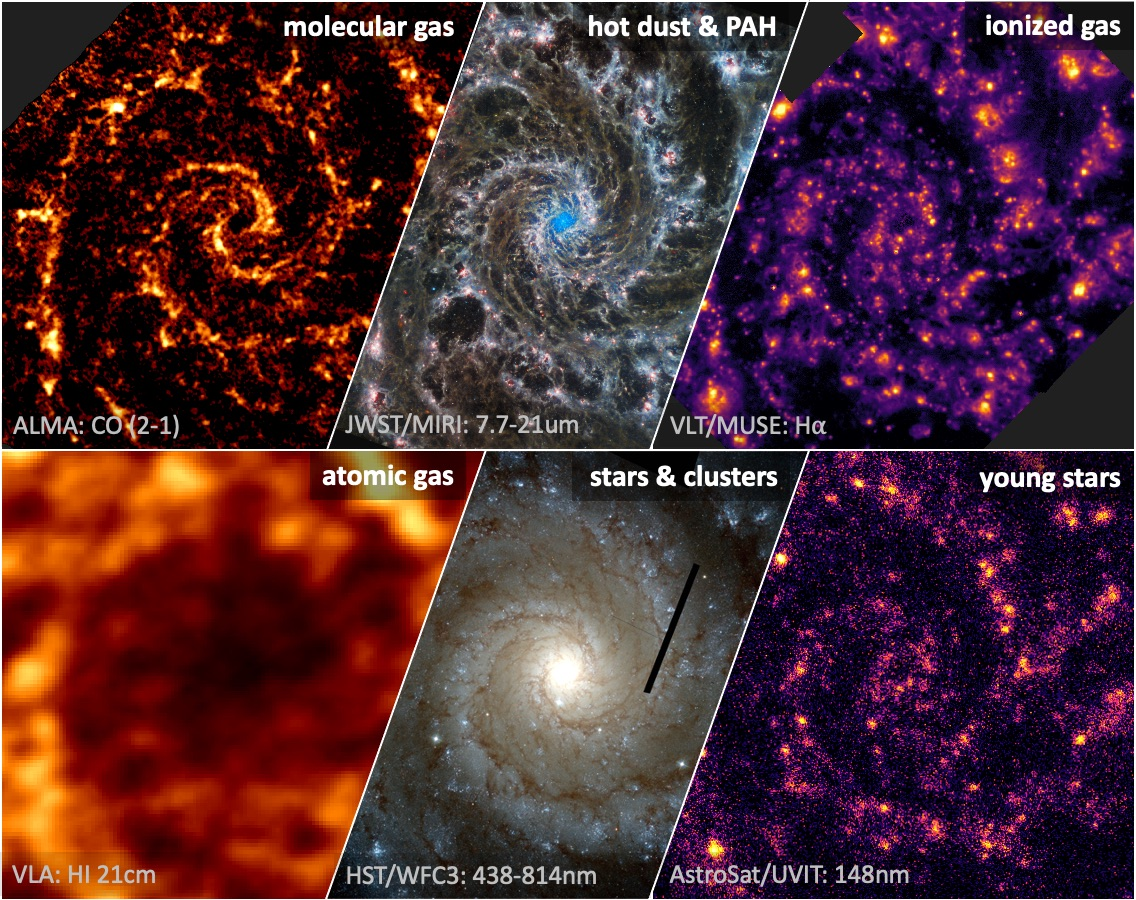
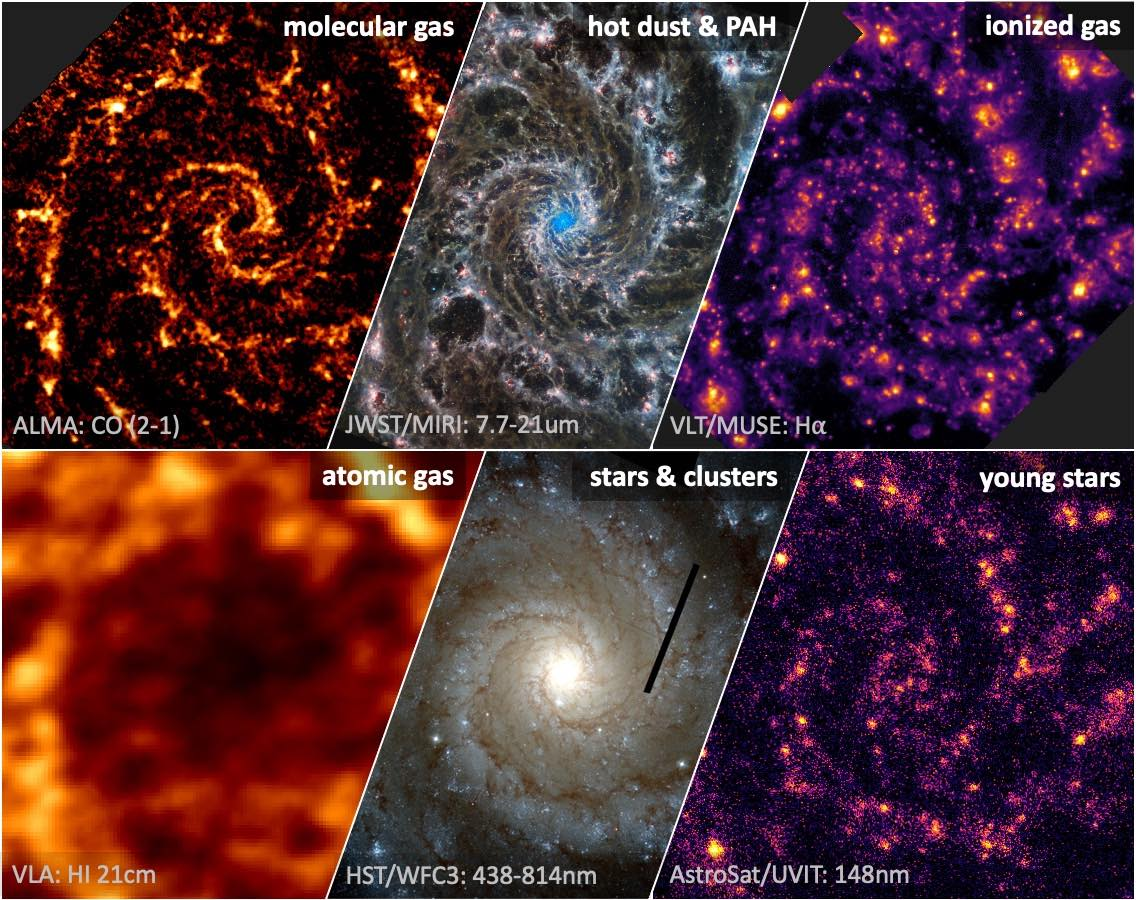
Reduce image size

diff --git a/research.html b/research.html
@@ -37,7 +37,7 @@
 						</div>
 						<div class="col-8 col-12-small">
 							<span class="image fit">
-							        <a class="image featured"><img src="images/ADS_concept_cloud.png" alt="Concept Cloud Generated by NASA/ADS" /></a>
+							        <a class="image featured"><img src="images/ADS_concept_cloud.jpg" alt="Concept Cloud Generated by NASA/ADS" /></a>
 							</span>
 							</br>
 							<a href="https://ui.adsabs.harvard.edu/search/q=docs(library%2FKzxE7dJrQ86J6NNsBvNmpQ)&sort=citation_count%20desc%2C%20bibcode%20desc" class="button scrolly" style="margin:0.5em">ADS Library</a>
@@ -56,7 +56,7 @@
 					<div class="row">
 						<div class="col-6 col-12-small">
 							<article class="box style2">
-							        <a class="image featured"><img src="images/PHANGS_ALMA_sample.png" alt="PHANGS-ALMA CO data" /></a>
+							        <a class="image featured"><img src="images/PHANGS_ALMA_sample.jpg" alt="PHANGS-ALMA CO data" /></a>
 							        <!-- <a class="image featured"><div style="position:relative;padding-top:56.25%;"> -->
 								<!-- 	<iframe src="https://www.youtube.com/embed/-_eL7t1PVq8" frameborder="0" allowfullscreen style="position:absolute;top:0;left:0;width:100%;height:100%;"></iframe> -->
 								<!-- </div></a> -->
@@ -102,7 +102,7 @@
 						</div>
 						<div class="col-6 col-12-small">
 							<article class="box style2">
-								<a class="image featured"><img src="images/Sun_etal_2023_Fig_3.png" alt="Fig. 3 in Sun et al. (2023)" /></a>
+								<a class="image featured"><img src="images/Sun_etal_2023_Fig_3.jpg" alt="Fig. 3 in Sun et al. (2023)" /></a>
 								<h3>Quantifying the Efficiencies of Star Formation and Stellar Feedback</h3>
 								<p style="font-size:100%; text-align:justify; margin-top:1ex; color:black;">
 									I actively work on measuring robust star formation rates and efficiencies and quantifying their dependence on ISM properties. In <a href="https://ui.adsabs.harvard.edu/abs/2018ApJ...861L..18U">a 2018 paper</a>, my colleague and I found that the star formation efficiency per free-fall time &#8212; a key dimensionless parameter in numerical and analytic models &#8212; is about 0.7% across 14 nearby galaxies. <a href="https://ui.adsabs.harvard.edu/abs/2023arXiv230212267S">My paper in 2023</a> substantially expands this analysis by determining the molecular gas depletion time, the star formation efficiency per free-fall time and per orbital time, and the feedback yield over the full PHANGS galaxy sample.
@@ -119,7 +119,7 @@
 						</div>
 						<div class="col-6 col-12-small">
 							<article class="box style2">
-								<a class="image featured"><img src="images/Jeffreson_etal_2022_Fig_1.png" alt="Fig. 1 in Dobbs et al. (2019)" /></a>
+								<a class="image featured"><img src="images/Jeffreson_etal_2022_Fig_1.jpg" alt="Fig. 1 in Dobbs et al. (2019)" /></a>
 								<h3>Connecting Observations with Numerical Simulations</h3>
 								<p style="font-size:100%; text-align:justify; margin-top:1ex; color:black;">
 									I also work closely with researchers running numerical simulations over a broad range of spatial scales. In <a href="https://ui.adsabs.harvard.edu/abs/2019MNRAS.485.4997D">a 2019 paper</a>, I conducted a proof-of-concept experiment in a collaborative project that compares the observed molecular clouds in M33 to those in a set of dedicated simulations. In <a href="https://ui.adsabs.harvard.edu/abs/2022MNRAS.515.1663J">a 2022 paper</a>, my colleagues and I proposed a novel method for estimating the (unobservable) molecular disk vertical scale height in face-on galaxies and tested it in a galaxy-scale simulation. I am now working on extending these efforts to observations and simulations probing more extreme conditions, especially high gas density and pressure, in order to provide more stringent constraints on physical models of star formation, stellar feedback, and chemical network.
